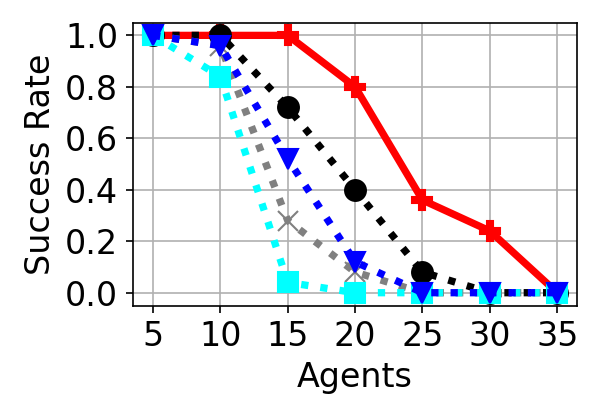
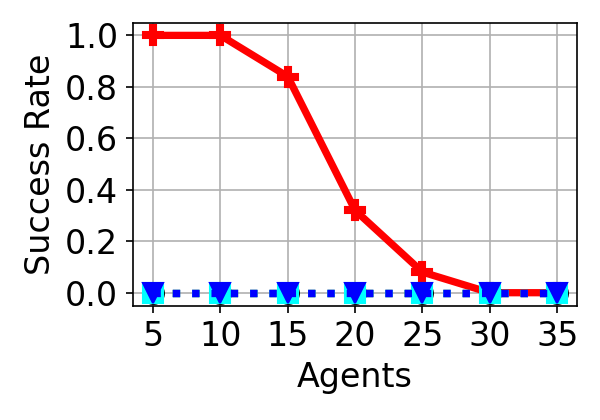
generated 4 objectives results for few benchmarks

diff --git a/scripts/plot_all_benchmarks.py b/scripts/plot_all_benchmarks.py
@@ -30,6 +30,9 @@ map_names = ["empty-32-32",
              "room-64-64-16",
              "room-64-64-8"]
 
+# map_names = ["random-32-32-20",
+#              "room-32-32-4"]
+
 markers = {
     "BBMOCBS-k (k=5)": 'o',
     "BBMOCBS-k (k=10)": 'x',
@@ -51,6 +54,8 @@ linestyles = {
     "BBMOCBS-pex": 'dotted',
     "LCBS": 'solid',
 }
+map_names = ["random-32-32-20",
+             "room-32-32-4"]
 
 for map_name in map_names:
     # Plot configuration
